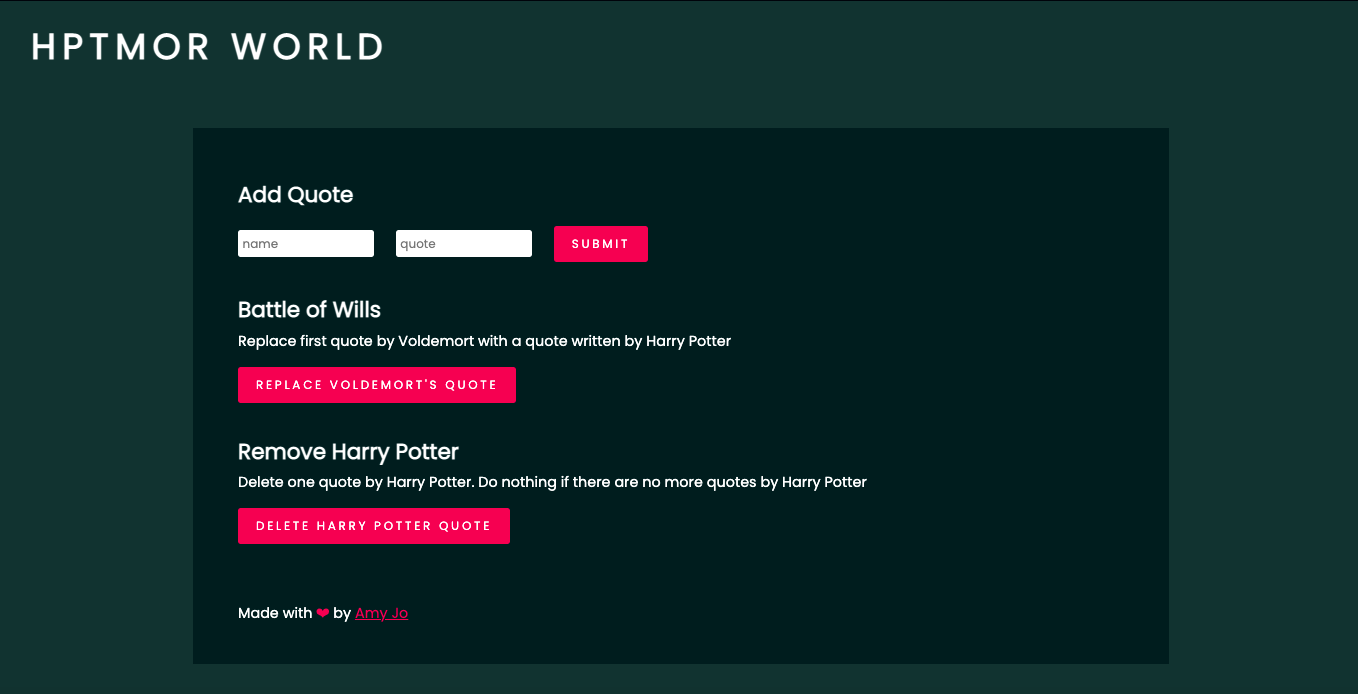
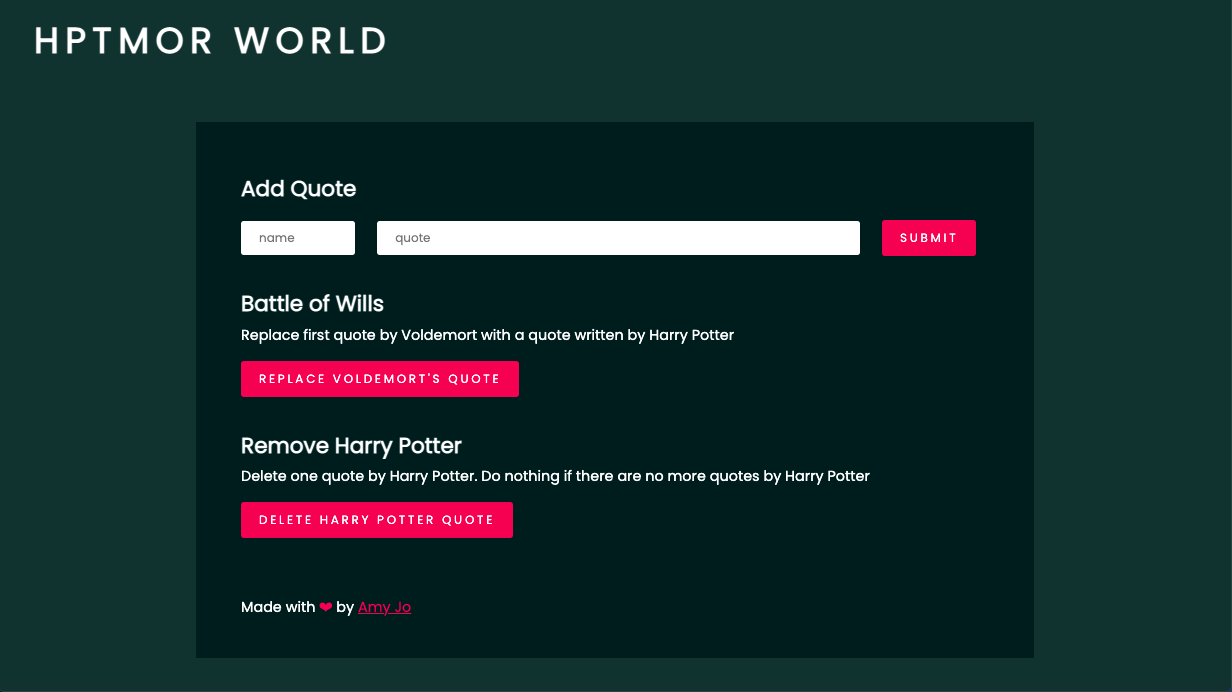
stlye input

diff --git a/server.js b/server.js
@@ -6,8 +6,6 @@ const app = express()
 
 const port = process.env.PORT || 3000
 
-// const connectionString = 'mongodb+srv://adminQuote:mongo712CH@cluster0.nnlhd.mongodb.net/myFirstDatabase?retryWrites=true&w=majority'
-
 require('dotenv').config({
     path: './secrets/.env'
   })

diff --git a/public/styles.css b/public/styles.css
@@ -44,7 +44,7 @@ input{
 
 #quote-input{
     /* width: 600px; */
-    width: 50%;
+    width: 57%;
 }
 
 .header-green {
